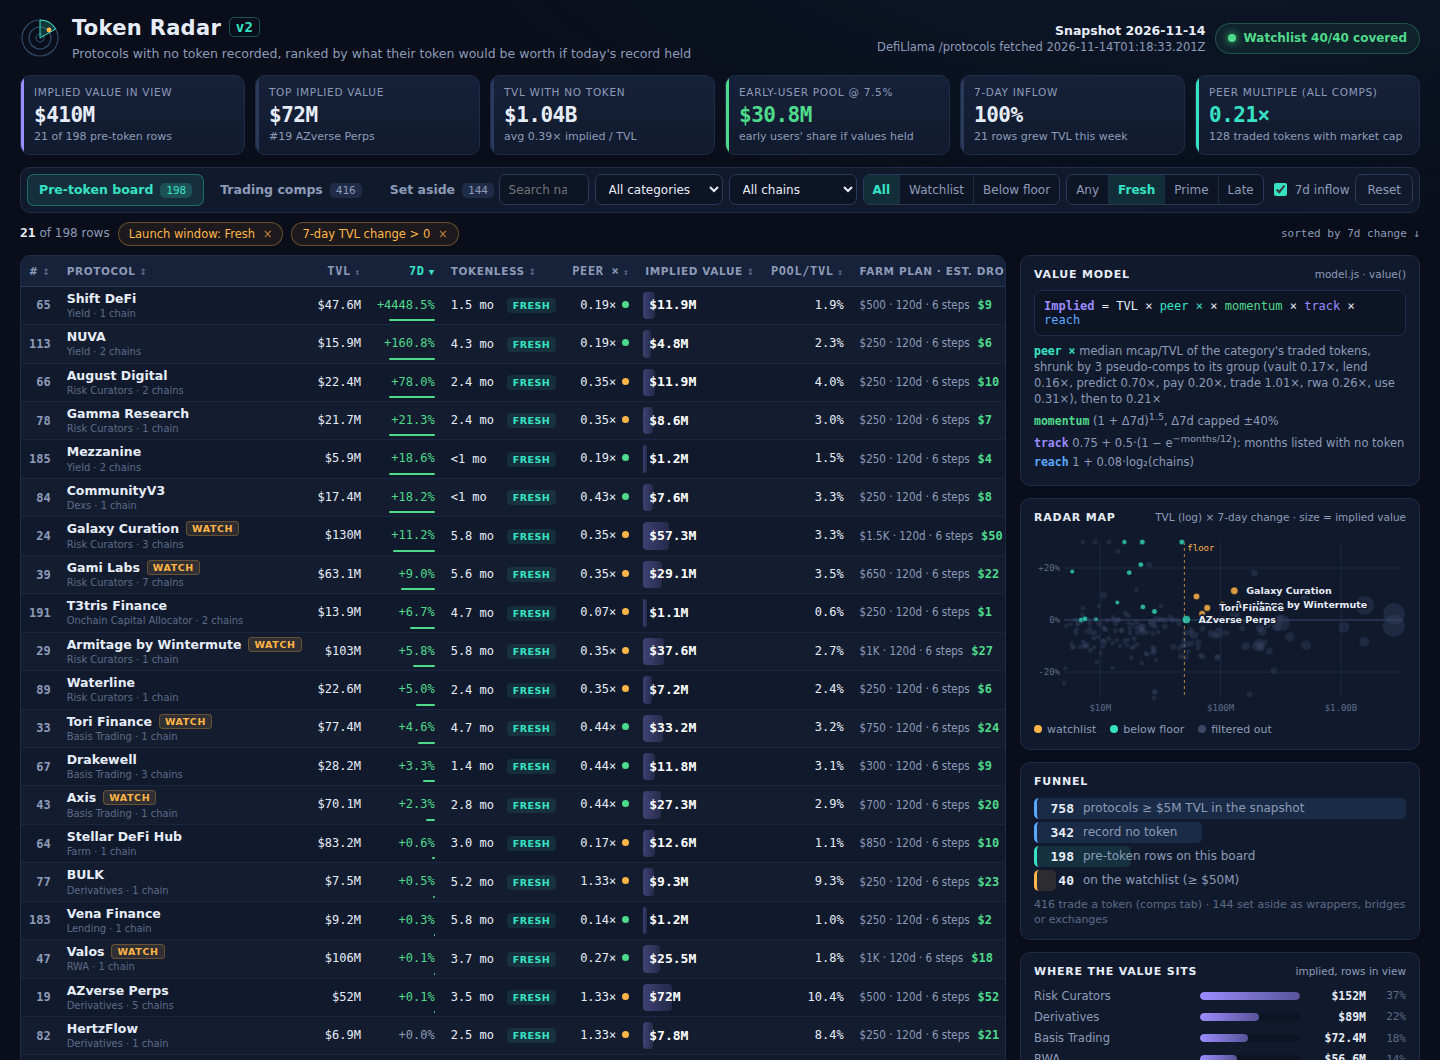
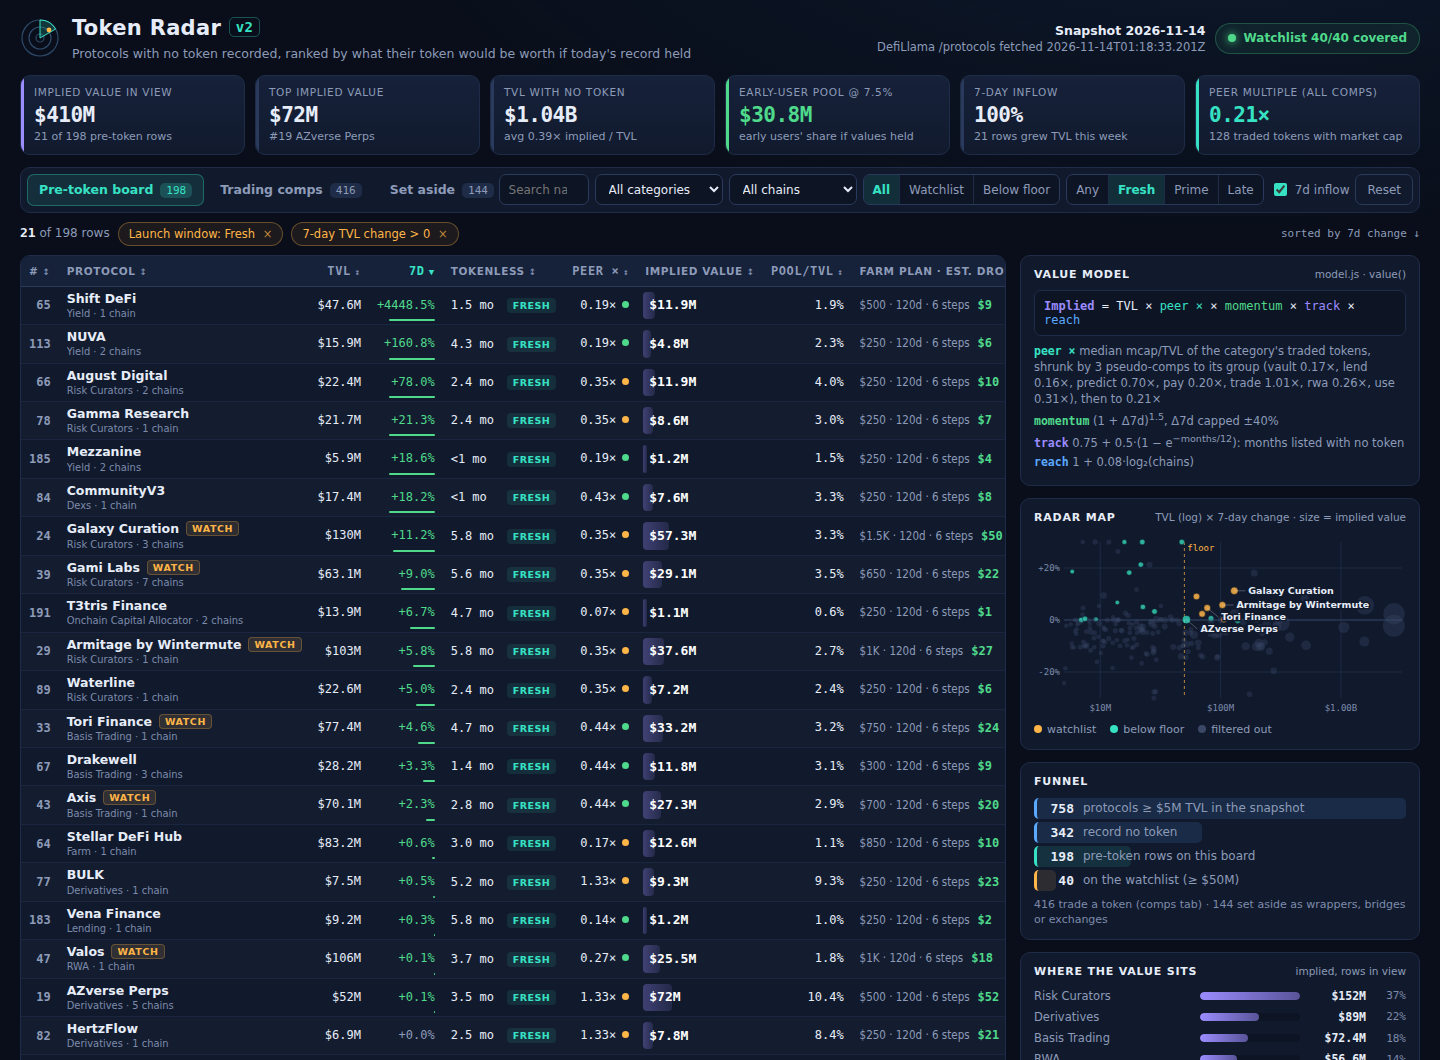
Readable dim text contrast, collision-free radar labels with leaders, audit probes

diff --git a/dashboard/app.js b/dashboard/app.js
@@ -207,10 +207,15 @@
       var on = inView[r.p.slug], rad = 2 + 9 * Math.sqrt(r.v.implied / max);
       return '<circle cx="' + x(r.p.tvl_usd).toFixed(1) + '" cy="' + y(r.p.change_7d).toFixed(1) + '" r="' + rad.toFixed(1) + '" class="dot' + (on ? (r.watch ? ' w' : ' a') : '') + '" data-slug="' + esc(r.p.slug) + '"/>';
     }).join('');
-    var lab = rows.slice().sort(function (a, b) { return a.rank - b.rank; }).slice(0, 4).map(function (r) {
-      var cx = x(r.p.tvl_usd), right = cx > W - 110;
-      return '<text x="' + (cx + (right ? -12 : 12)) + '" y="' + (y(r.p.change_7d) + 3) + '" class="lb" text-anchor="' + (right ? 'end' : 'start') + '">' + esc(r.p.name) + '</text>';
-    }).join('');
+    // Label the top four in view; labels stack 12px apart so they never collide, with a leader to their dot.
+    var lastY = -1e9, lab = rows.slice().sort(function (a, b) { return a.rank - b.rank; }).slice(0, 4)
+      .map(function (r) { return { r: r, cx: x(r.p.tvl_usd), cy: y(r.p.change_7d) }; })
+      .sort(function (a, b) { return a.cy - b.cy; }).map(function (o) {
+        var right = o.cx > W - 150, ly = Math.max(o.cy + 3, lastY + 12, T + 8), lx = o.cx + (right ? -14 : 14);
+        lastY = ly;
+        return '<line x1="' + o.cx.toFixed(1) + '" y1="' + o.cy.toFixed(1) + '" x2="' + (lx + (right ? 3 : -3)) + '" y2="' + (ly - 3) + '" class="ld"/>' +
+          '<text x="' + lx + '" y="' + ly + '" class="lb" text-anchor="' + (right ? 'end' : 'start') + '">' + esc(o.r.p.name) + '</text>';
+      }).join('');
     return '<div class="card"><h3>Radar map <small>TVL (log) × 7-day change · size = implied value</small></h3><svg viewBox="0 0 ' + W + ' ' + H + '" class="sc">' + g + dots + lab + '</svg>' +
       '<div class="lg"><span><i class="w"></i>watchlist</span><span><i class="a"></i>below floor</span><span><i></i>filtered out</span></div></div>';
   }

diff --git a/tools/contrast.js b/tools/contrast.js
@@ -1,0 +1,23 @@
+window.PROBE = () => {
+  const rgb = (s) => (s.match(/[\d.]+/g) || []).map(Number);
+  const lum = ([r, g, b]) => { const f = (c) => { c /= 255; return c <= 0.03928 ? c / 12.92 : ((c + 0.055) / 1.055) ** 2.4; }; return 0.2126 * f(r) + 0.7152 * f(g) + 0.0722 * f(b); };
+  const blend = (top, bot) => { const a = top[3] === undefined ? 1 : top[3]; return [0, 1, 2].map((i) => top[i] * a + bot[i] * (1 - a)); };
+  const bgOf = (el) => {
+    const stack = [];
+    for (let e = el; e; e = e.parentElement) { const c = rgb(getComputedStyle(e).backgroundColor); if (c.length === 4 && c[3] === 0) continue; stack.push(c); if (c.length === 3 || c[3] === 1) break; }
+    let base = [9, 14, 26];
+    for (let i = stack.length - 1; i >= 0; i--) base = blend(stack[i], base);
+    return base;
+  };
+  const det = document.getElementById('detail');
+  const els = [...document.querySelectorAll('body *')].filter((e) => e.offsetParent !== null && !e.closest('svg') && [...e.childNodes].some((n) => n.nodeType === 3 && n.textContent.trim()))
+    .filter((e) => det.hidden ? true : e.closest('#detail')).filter((e) => { const r = e.getBoundingClientRect(); return r.top < innerHeight && r.bottom > 0; });
+  const low = {};
+  els.forEach((e) => {
+    const cs = getComputedStyle(e), fg = rgb(cs.color), bg = bgOf(e);
+    const fgc = blend(fg, bg), L1 = lum(fgc), L2 = lum(bg), cr = (Math.max(L1, L2) + 0.05) / (Math.min(L1, L2) + 0.05);
+    const op = +cs.opacity;
+    if (cr < 4.5 || op < 1) { const k = (e.className || e.tagName) + ' "' + e.textContent.trim().slice(0, 18) + '"'; low[k] = Math.round(cr * 10) / 10; }
+  });
+  return { lowContrast: Object.entries(low).slice(0, 14) };
+};

diff --git a/dashboard/theme.css b/dashboard/theme.css
@@ -1,7 +1,7 @@
 /* Token Radar v2 — ink-navy console, teal radar accent, amber for the watchlist, violet for value. */
 :root {
   --bg:#090e1a; --bg2:#0d1424; --panel:#111a2d; --panel2:#16213a; --line:#1f2c47; --line2:#2a3a5c;
-  --ink:#e7edf8; --mute:#8d9bb8; --dim:#5d6b88; --teal:#37e2c4; --amber:#ffb547; --violet:#9b8cff;
+  --ink:#e7edf8; --mute:#8d9bb8; --dim:#7d8bab; --teal:#37e2c4; --amber:#ffb547; --violet:#9b8cff;
   --green:#4fd98b; --red:#ff6b7d; --blue:#5aa9ff; --sans:"DejaVu Sans", "Segoe UI", system-ui, sans-serif;
   --cond:"DejaVu Sans Condensed", "Arial Narrow", "DejaVu Sans", sans-serif;
   --mono:"DejaVu Sans Mono", ui-monospace, Menlo, monospace; --r:10px;
@@ -131,6 +131,7 @@ h1 span { color:var(--teal);font-family:var(--mono);font-size:14px;border:1px so
 .sc .dot { fill:#3a4866;opacity:.35;cursor:pointer; }
 .sc .dot.a { fill:var(--teal);opacity:.75;stroke:#0b1222;stroke-width:.6; }
 .sc .dot.w { fill:var(--amber);opacity:.85;stroke:#0b1222;stroke-width:.6; }
+.sc .ld { stroke:#e7edf866;stroke-width:.7; }
 .sc .lb { fill:var(--ink);font:700 9.5px var(--sans);paint-order:stroke;stroke:var(--panel);stroke-width:3px; }
 .lg { display:flex;gap:14px;font-size:11px;color:var(--mute);margin-top:4px; }
 .lg i { display:inline-block;width:8px;height:8px;border-radius:50%;background:#3a4866;margin-right:5px; }
